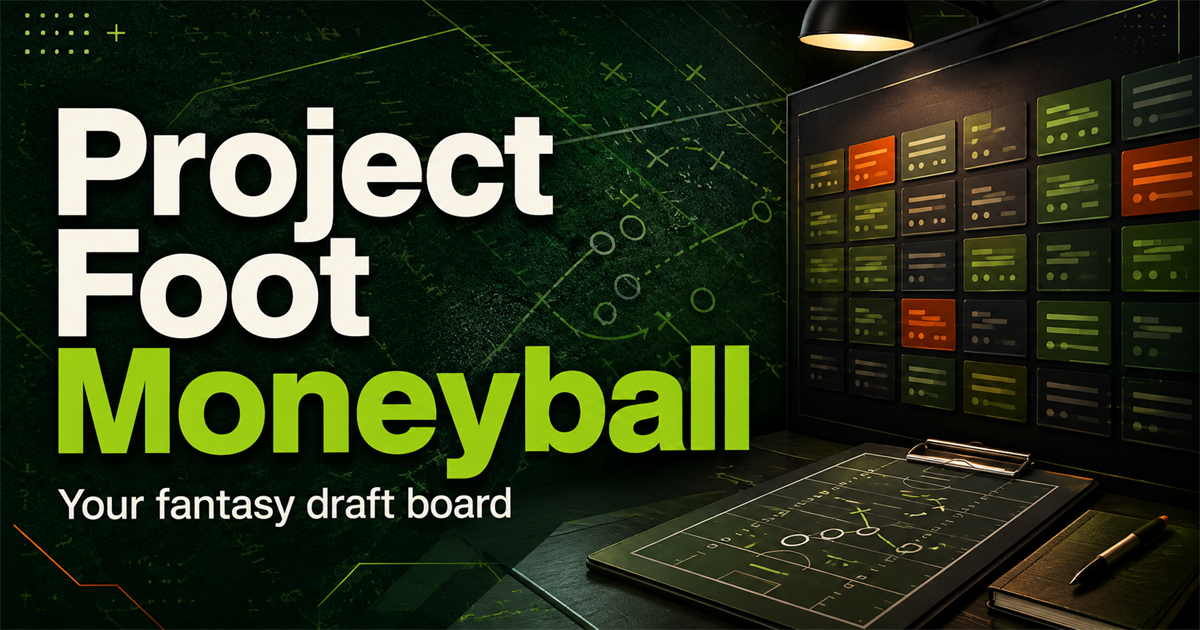
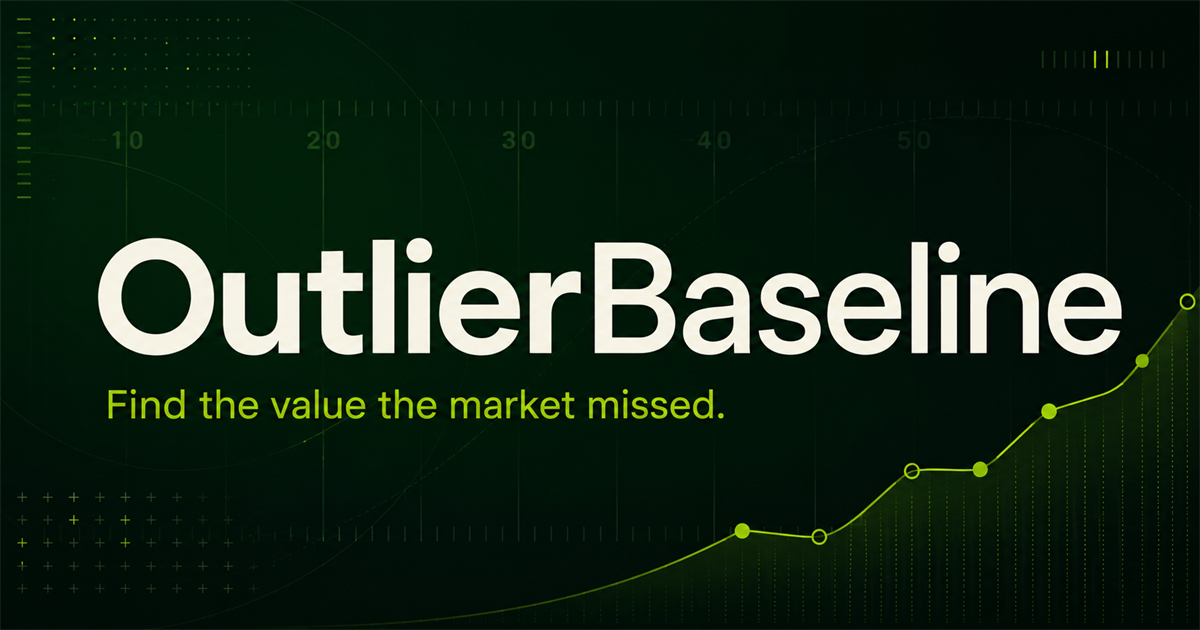
Rebrand website as OutlierBaseline

diff --git a/docs/index.html b/docs/index.html
@@ -4,25 +4,25 @@
   <meta charset="utf-8">
   <meta name="viewport" content="width=device-width, initial-scale=1">
   <meta name="theme-color" content="#071d18">
-  <meta name="description" content="Interactive Project Foot Moneyball fantasy football draft board with source-linked player intel.">
-  <meta property="og:title" content="Project Foot Moneyball">
-  <meta property="og:description" content="Build your board. Track your draft. Find the value.">
+  <meta name="description" content="OutlierBaseline is an interactive fantasy football draft board with source-linked player intel.">
+  <meta property="og:title" content="OutlierBaseline">
+  <meta property="og:description" content="Find the value the market missed.">
   <meta property="og:type" content="website">
   <meta property="og:url" content="https://realdiceflame.github.io/ProjectFootMoneyball/">
   <meta property="og:image" content="https://realdiceflame.github.io/ProjectFootMoneyball/og.png">
   <meta name="twitter:card" content="summary_large_image">
-  <meta name="twitter:title" content="Project Foot Moneyball">
-  <meta name="twitter:description" content="Build your board. Track your draft. Find the value.">
+  <meta name="twitter:title" content="OutlierBaseline">
+  <meta name="twitter:description" content="Find the value the market missed.">
   <meta name="twitter:image" content="https://realdiceflame.github.io/ProjectFootMoneyball/og.png">
-  <title>Project Foot Moneyball Draft Board</title>
+  <title>OutlierBaseline Fantasy Draft Board</title>
   <link rel="stylesheet" href="styles.css">
 </head>
 <body>
   <header class="topbar">
-    <a class="brand" href="./" aria-label="Project Foot Moneyball home">
-      <span class="brand-mark" aria-hidden="true">PFM</span>
+    <a class="brand" href="./" aria-label="OutlierBaseline home">
+      <span class="brand-mark" aria-hidden="true">OB</span>
       <span>
-        <strong>Project Foot Moneyball</strong>
+        <strong>OutlierBaseline</strong>
         <small>Fantasy draft command center</small>
       </span>
     </a>
@@ -92,7 +92,7 @@
     </section>
   </main>
 
-  <footer><span>Project Foot Moneyball · 2025 stats for the 2026 season</span><a href="https://github.com/RealDiceflame/ProjectFootMoneyball/releases">Need the desktop app or spreadsheet?</a></footer>
+  <footer><span>OutlierBaseline · 2025 stats for the 2026 season</span><a href="https://github.com/RealDiceflame/ProjectFootMoneyball/releases">Need the desktop app or spreadsheet?</a></footer>
 
   <dialog id="intel-dialog" class="intel-dialog" aria-labelledby="intel-title">
     <form method="dialog" class="intel-shell">

diff --git a/docs/app.js b/docs/app.js
@@ -707,7 +707,7 @@ function exportVisibleBoard() {
   const url = URL.createObjectURL(blob);
   const link = document.createElement("a");
   link.href = url;
-  link.download = `ProjectFootMoneyball-${rankingSlug()}.csv`;
+  link.download = `OutlierBaseline-${rankingSlug()}.csv`;
   link.click();
   URL.revokeObjectURL(url);
 }

diff --git a/tests/test_draft_board_exporter.py b/tests/test_draft_board_exporter.py
@@ -13,6 +13,7 @@ def test_exporter_builds_switchable_workbook(tmp_path):
     export_switchable_draft_board(tmp_path, destination)
     workbook = load_workbook(destination, data_only=False)
     assert workbook.sheetnames == ["Draft Board", "League Settings", "Format Data"]
+    assert workbook["Draft Board"]["A1"].value == "OutlierBaseline Fantasy Draft Board"
     assert workbook["Draft Board"]["R2"].value == 12
     assert workbook["Draft Board"]["V2"].value == "2QB"
     assert workbook["Draft Board"]["R3"].value == "Half PPR"

diff --git a/app/draft_board_exporter.py b/app/draft_board_exporter.py
@@ -48,7 +48,7 @@ def export_switchable_draft_board(rankings_dir, workbook_path):
     data.auto_filter.ref = data.dimensions
 
     board.merge_cells("A1:P1")
-    board["A1"] = "Project Foot Moneyball Draft Board"
+    board["A1"] = "OutlierBaseline Fantasy Draft Board"
     board["A1"].fill = PatternFill("solid", fgColor=navy)
     board["A1"].font = Font(color=white, bold=True, size=18)
     board["A1"].alignment = Alignment(horizontal="center")

diff --git a/README.md b/README.md
@@ -1,4 +1,4 @@
-# Project Foot Moneyball
+# OutlierBaseline
 
 ## Use the web draft board
 
